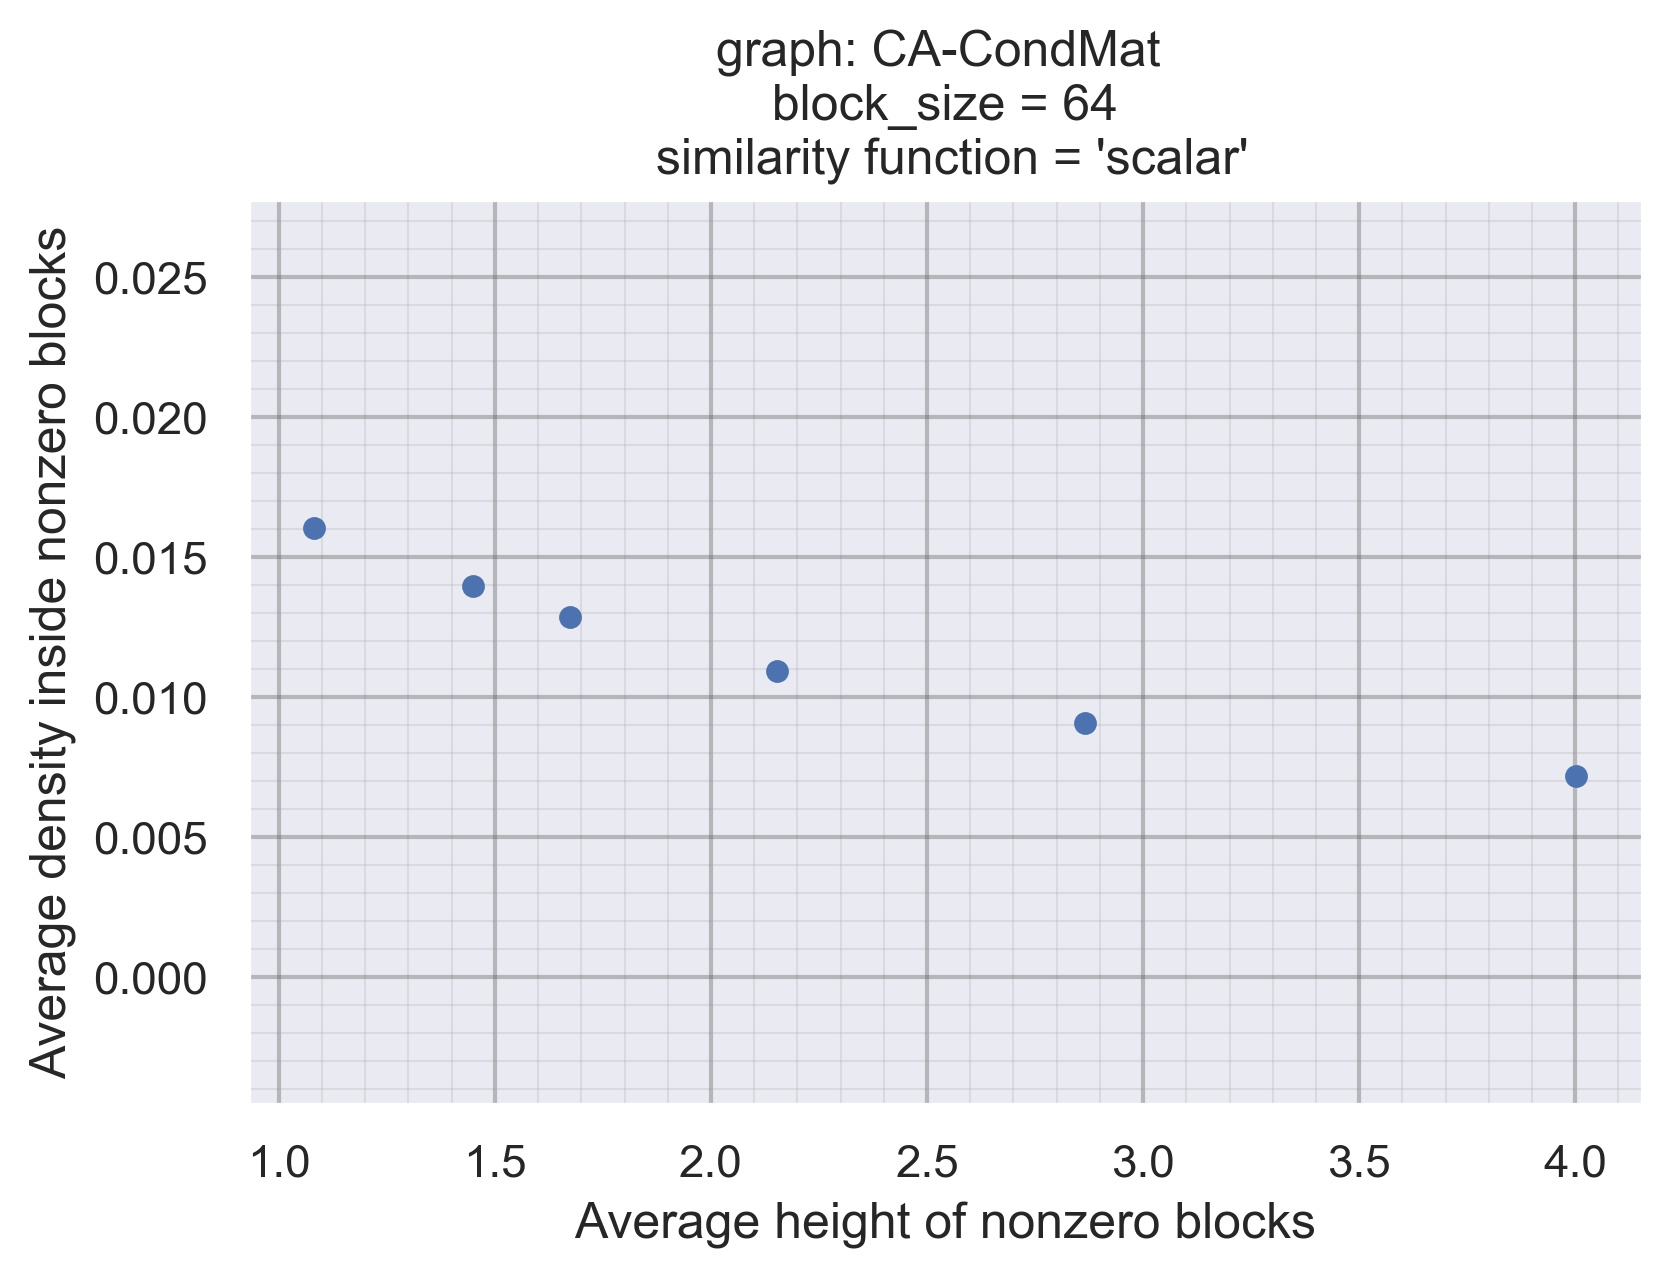
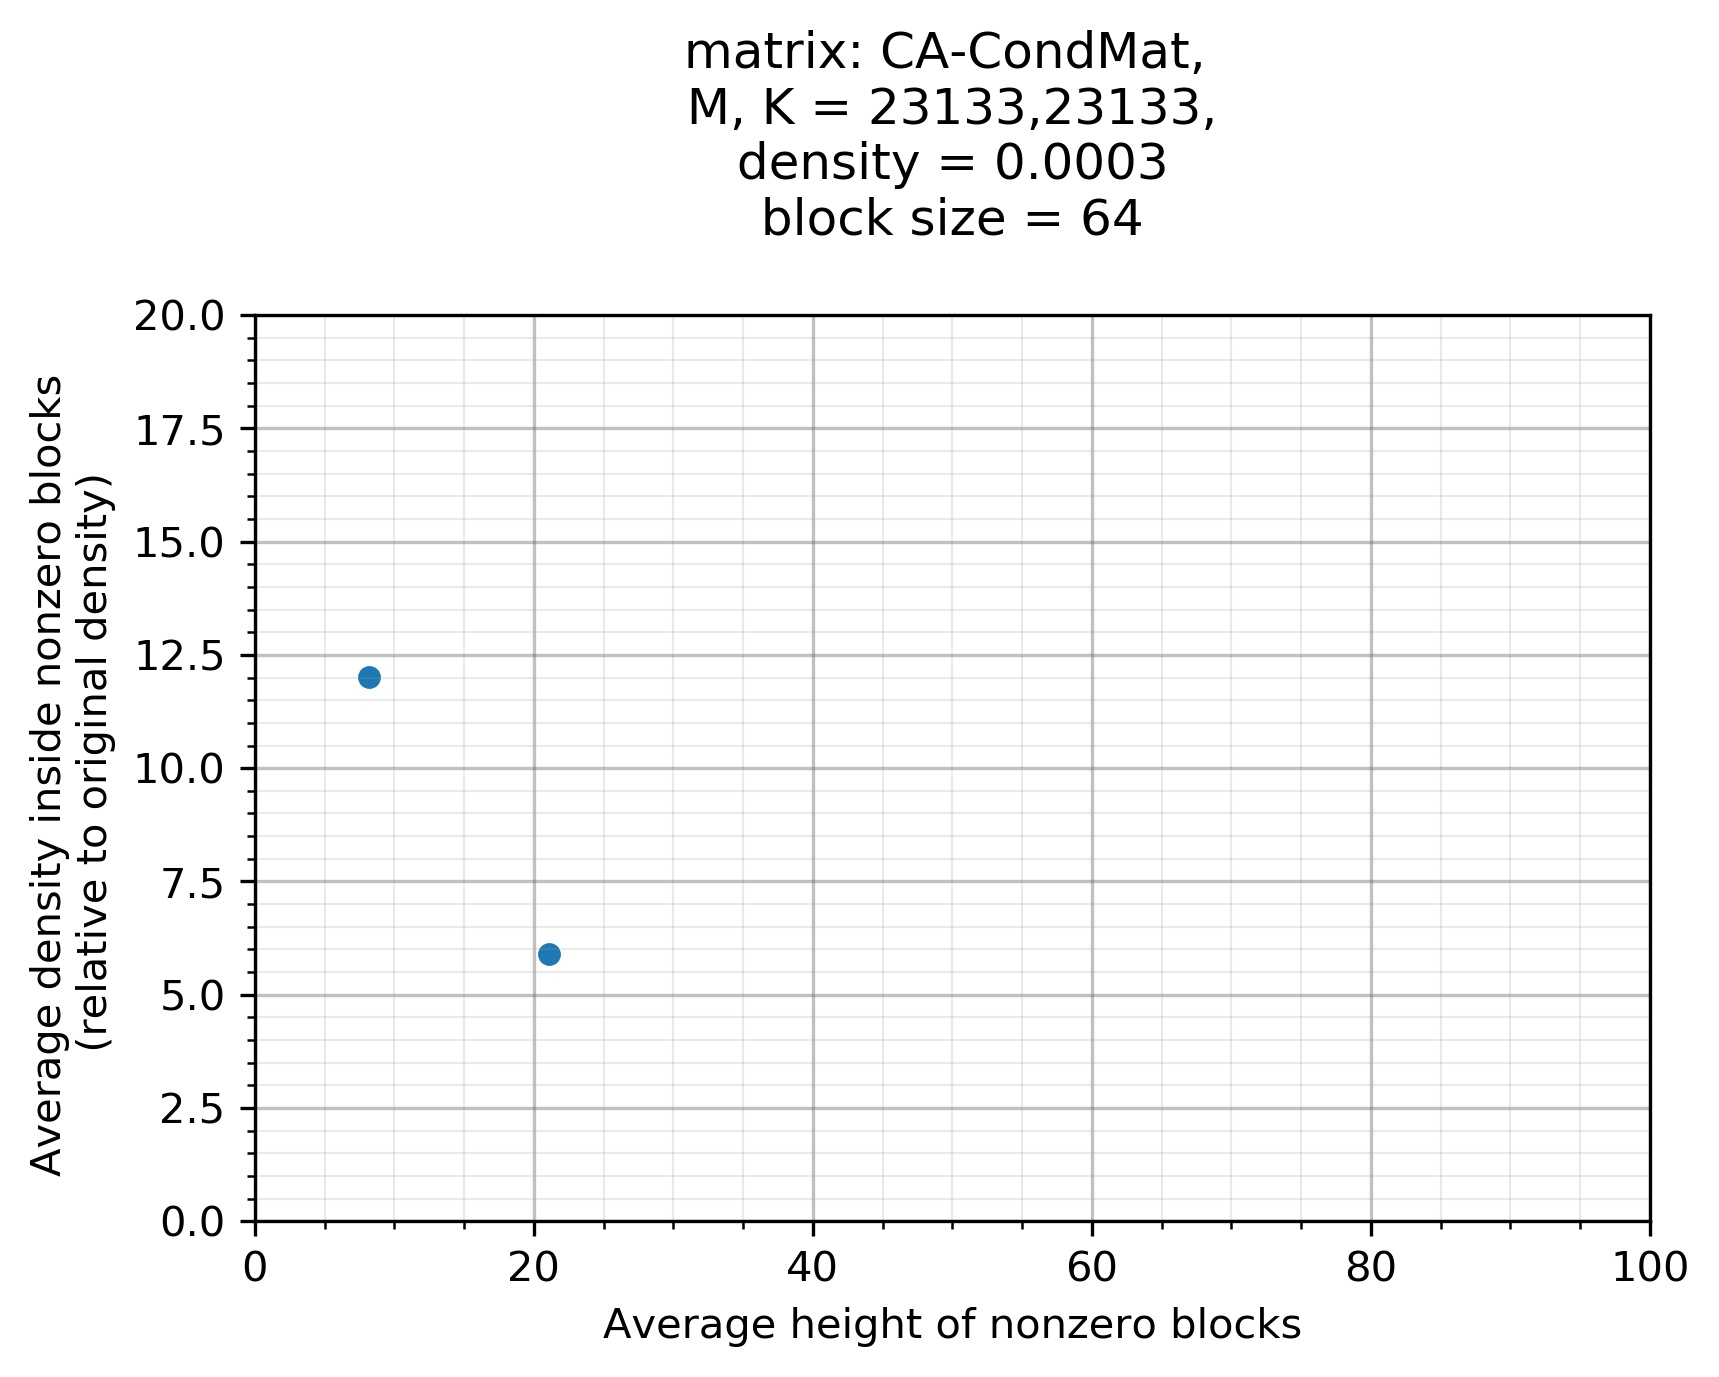
new images

Changed region(s): [[0.0, 0.0, 0.9952, 0.9758]]

diff --git a/Pyhton_scripts/SPARTA_reorder_analysis_pandas.py b/Pyhton_scripts/SPARTA_reorder_analysis_pandas.py
@@ -15,7 +15,7 @@ import seaborn as sns
 from scipy import interpolate
 
 
-saad = True
+saad = False
 if saad:
     input_file = "../results/test_reordering_blocked_synth_saad_25_10.csv"
 else:
@@ -108,6 +108,9 @@ results_df["output_in_block_density"] = results_df.apply(lambda x: x['total_nonz
 
 results_df["relative_density"] = results_df.apply(lambda x: x['output_in_block_density']/x["input_entries_density"], axis=1)
 
+results_df["true_relative_density"] = results_df.apply(lambda x: x['output_in_block_density']/x["input_density"], axis=1)
+
+
 results_df = results_df[results_df["input_blocks_density"] != 0.01]
 
 to_display = ["input_entries_density",
@@ -196,7 +199,7 @@ for cols in [2048,]:
 
 def real_reorder_curve(graph = None, block_size = 64, similarity = "'scalar'", save_folder = "../images/reorder_curve/", name = "real_reorder_curve", saad = False):
     fixed = {
-        "input_source": "any",
+        "input_source": "'" + str(graph) + "'",
         "algo_block_size": str(block_size),
         "epsilon": "any",
         "similarity_func": similarity,
@@ -211,15 +214,19 @@ def real_reorder_curve(graph = None, block_size = 64, similarity = "'scalar'", s
     graph_name = graph.split("/")[-1].split(".")[0]
     fixed
     q = build_query(fixed)
-    results_df.query(q).plot(x = "VBS_avg_nzblock_height", y = "output_in_block_density", kind = "scatter");
+    results_df.query(q).plot(x = "VBS_avg_nzblock_height", y = "true_relative_density", kind = "scatter");
+    dens = str(results_df.query(q)["input_density"].unique()[0])[0:6];
+    rows = str(results_df.query(q)["rows"].unique()[0]);
+    cols = str(results_df.query(q)["cols"].unique()[0]);
+
     plt.grid(b=True, which='major', color='#666666', linestyle='-', alpha=0.4)
     plt.minorticks_on()
     plt.grid(b=True, which='minor', color='#999999', linestyle='-', alpha=0.2, linewidth=0.5)
-    #plt.xlim(0,1000)
-    #plt.ylim(0,2)
-    plt.title("graph: {} \n block_size = {} \n similarity function = {}".format(graph_name, block_size, similarity))
+    plt.xlim(0,100)
+    plt.ylim(0,20)
+    plt.title("matrix: {}, \n M, K = {},{}, \n density = {} \n block size = {} \n".format(graph_name, rows, cols, dens, block_size, similarity))
     plt.xlabel("Average height of nonzero blocks");
-    plt.ylabel("Average density inside nonzero blocks");
+    plt.ylabel("Average density inside nonzero blocks \n (relative to original density)");
     
     savename = save_folder + name + "{}_bs{}_{}.jpg".format(graph_name,block_size, similarity);
 
@@ -229,10 +236,12 @@ def real_reorder_curve(graph = None, block_size = 64, similarity = "'scalar'", s
     
     
 for graph in results_df["input_source"].unique():
-    for algo_block_size in results_df["algo_block_size"].unique():
-        for sim in ["'scalar'","'jaccard'"]:
-            real_reorder_curve(graph,algo_block_size,sim);
-
+    for algo_block_size in [64,]:
+        for sim in ["'scalar'",]:
+            try:
+                real_reorder_curve(graph,algo_block_size,sim);
+            except: 
+                print("could not process", graph)
 
 
 def curve_comparison(rows = 2048, cols = 2048, block_size = 64, i_density = 0.1, b_density = 0.1, save_folder = "../images/reorder_curve/", name = "reorder_curve_comparison"):
